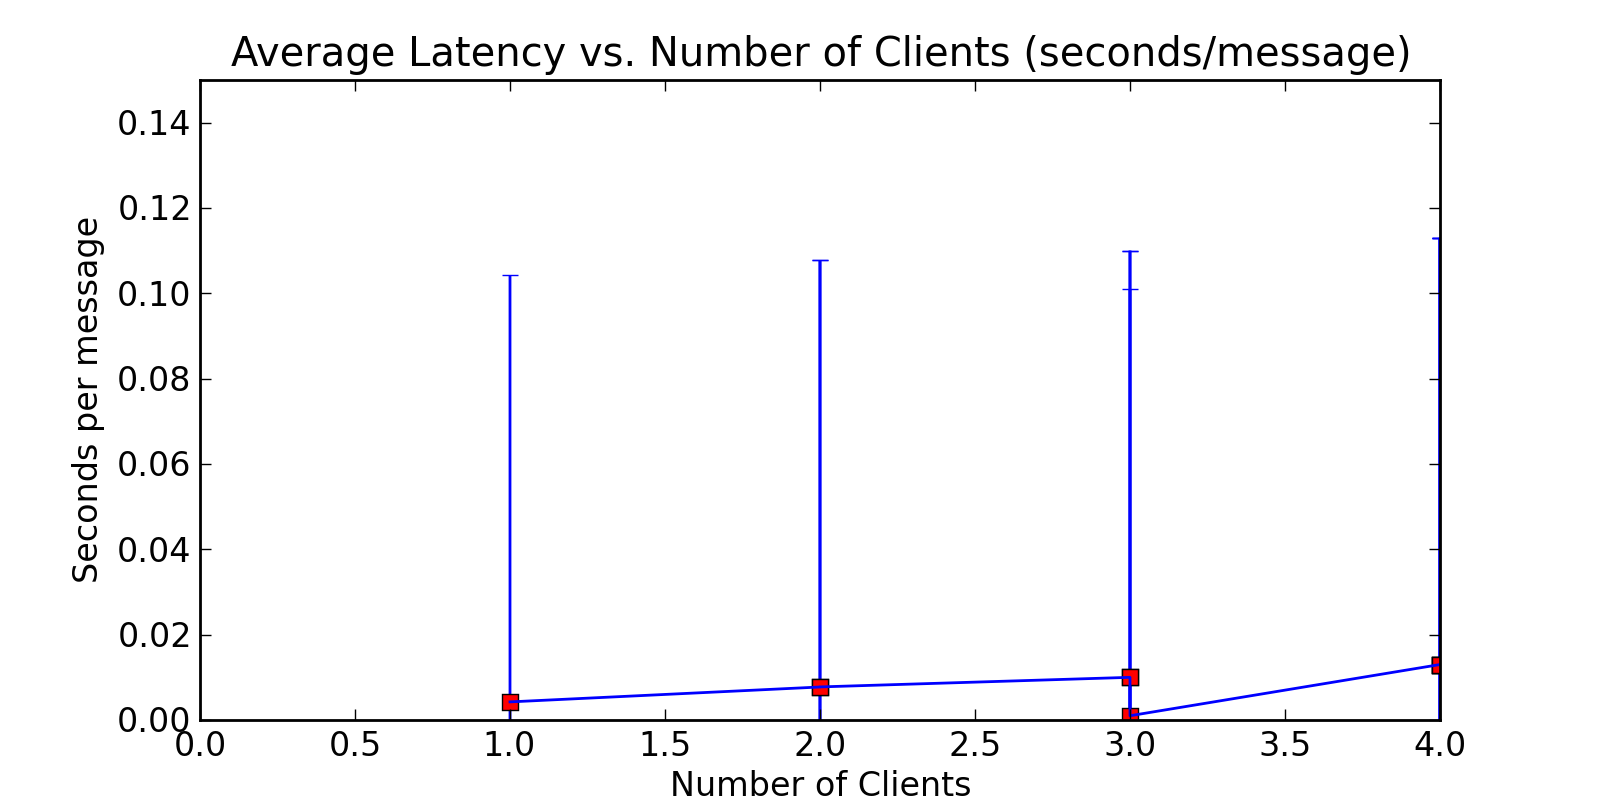
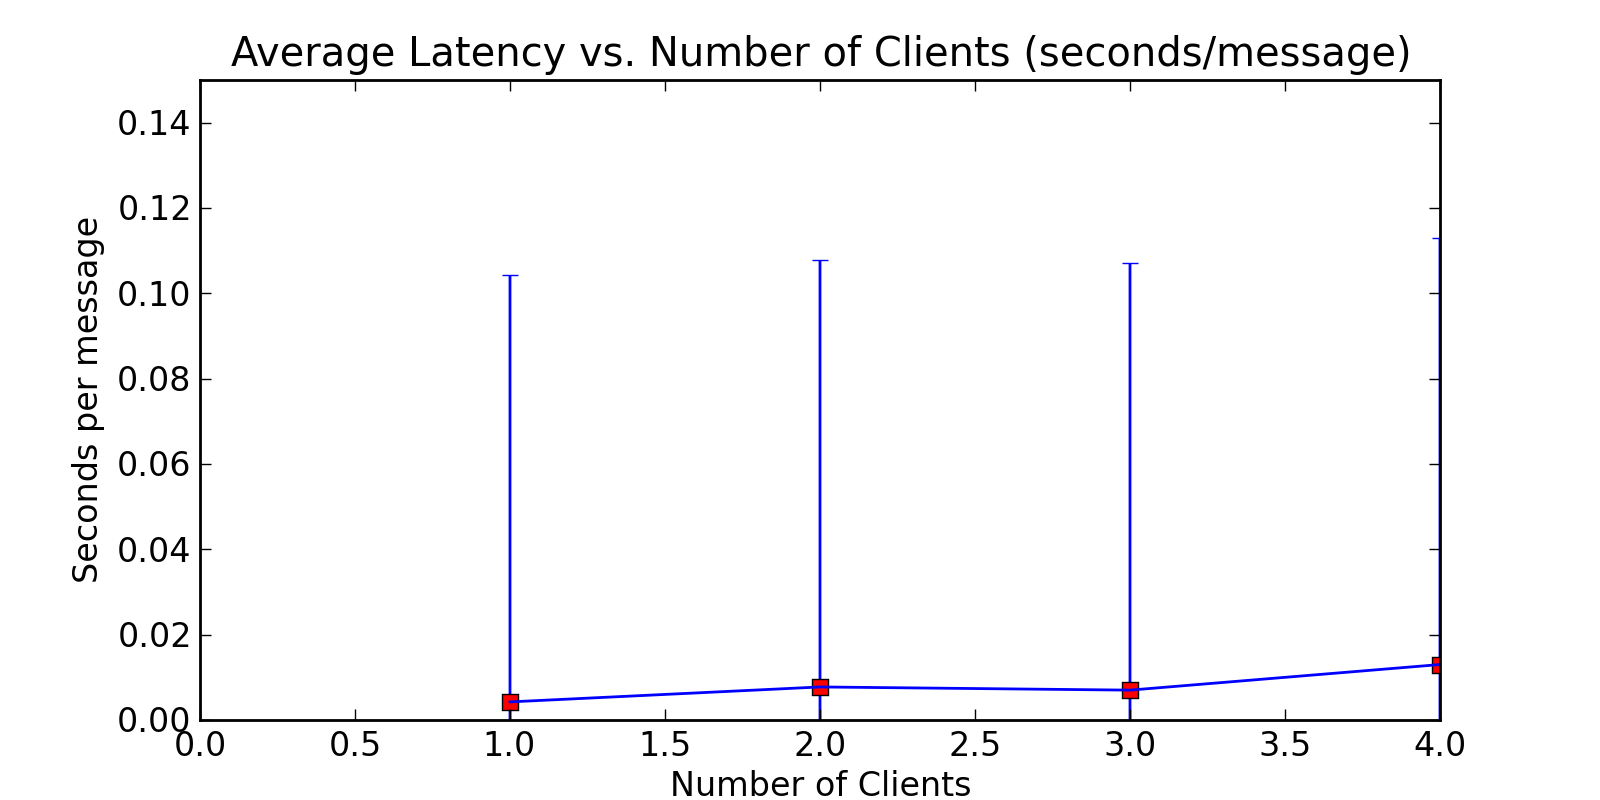
Polished up code.

Changed region(s): [[0.5, 0.8125, 0.9062, 0.9062], [0.6875, 0.3125, 0.7188, 0.3438]]

diff --git a/performance/chatroom/server.py b/performance/chatroom/server.py
@@ -12,6 +12,7 @@ numMessages = 1000
 startTime = 0
 timeout = 10
 numKilled = 0
+numClients = 0
 
 if(len(sys.argv) >= 2):
         timeOut = sys.argv[1]
@@ -24,6 +25,7 @@ n = 1
 def connected(endpoint):
         global timeout
         global numKilled
+        global numClients
         print 'Started'
         startTime = time.time()
         counter = 0
@@ -31,9 +33,10 @@ def connected(endpoint):
                 endpoint.service_signal()
                 counter += 1
                 if counter % 1000 == 999:
-                        if time.time() - startTime > timeout:
+                        if time.time() - startTime > numClients * timeout:
                                 numKilled += 1
                                 endpoint.stop()
+                                break
                                 #todo:
                                 #have the client only send new messages after
                                 #this time has been finished (to prevent
@@ -61,12 +64,15 @@ def display_msg(endpoint, msg):
 Waldo.tcp_accept(Server, HOSTNAME, PORT, display_msg, connected_callback = connected)
 
 print 'Server is up and running.'
-#while True:
-#	pass
+
 for i in range(1, 3):
+        numClients += 1
         for k in range(0, i):
                 subprocess.Popen("python client.py " + str(i))
 
+        #wait for endpoints to die...
         while(numKilled < i):
                 time.sleep(5)
+
+
         numKilled = 0

diff --git a/performance/plotify3.py b/performance/plotify3.py
@@ -27,12 +27,12 @@ def plotify():
 
             if cData is not []:
 
-                datum = float(cData[0]) * float(cData[2]) / (float(cData[1]))
-                if(cData[0] not in x):
-                    x.append(float(cData[0])) #brings me back to my usaco dayz
+                datum = int(cData[0]) * float(cData[2]) / (float(cData[1]))
+                if(int(cData[0]) not in x):
+                    x.append(int(cData[0])) #brings me back to my usaco dayz
                     y.append([datum])
                 else:
-                    y[x.index(float(cData[0]))].append(datum)
+                    y[x.index(int(cData[0]))].append(datum)
 
     processed = []
     for yList in y:
@@ -40,10 +40,13 @@ def plotify():
         processed.append(thing)
 
     plt.plot(x, processed, 'rs')
+    berp = np.std(processed)
 
     xr = np.array(x)
     yr = np.array(processed)
-    yerr = np.array([.1,.1,.1,.1,.1,.1,.1,.1,.1,.1])
+    yerr = np.array([.1,.1,.1,.1])
+    #standard error: stdev * invNorm(.975) / sqrt(n)
+    #if we only have one value, it's not needed... or is it....
 
     plt.errorbar(xr, yr, yerr=yerr)
     plt.title('Average Latency vs. Number of Clients (seconds/message)')

diff --git a/performance/behram/client.py b/performance/behram/client.py
@@ -29,7 +29,4 @@ for i in range(1,100000):
         f.write(str(time.time() - startTime) + '\n')
         print "Finished: " + str(time.time() - startTime) + '\n'
 
-        #if stop_except:
-        #        break
-        
 f.close()

diff --git a/performance/chatroom/client.py b/performance/chatroom/client.py
@@ -26,7 +26,6 @@ f = open('clientLog', 'a')
 numClients = 0
 if(len(sys.argv) >= 2):
         numClients = sys.argv[1]
-        print numClients
 
 f.write(str(numClients) + ' ' + str(numMessages) + ' ' + str(totalTime) + '\n')
 
